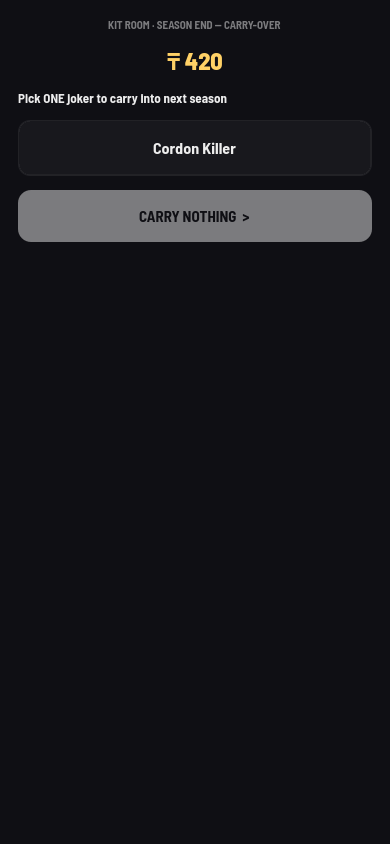
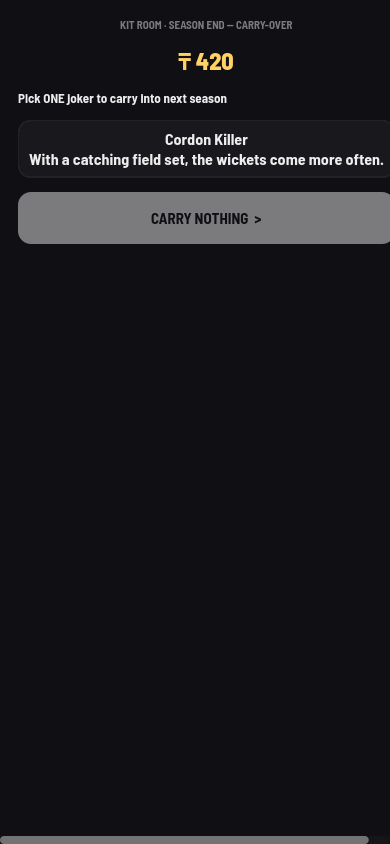
feat: T7 joker plain-English descriptions in Kit Room + tappable hub bench
JokerCatalog.DESC: 45 one-liners saying what each joker does in cricket words --
no percentages, no numbers (unit-enforced), honest to the effect rows. Kit Room
shows the line under every joker (starter picks, shelf, your-jokers, carry-over).
Hub bench tiles become Buttons: tap toggles the description in a JokDesc line
under the bench. Proof renders kit-room-*-v1.png + hub-joker-desc-v1.png
(harness tools/preview_joker_desc.gd). 850 tests / 10547 asserts green.

diff --git a/docs/PLAYTEST-NOTES.md b/docs/PLAYTEST-NOTES.md
@@ -56,6 +56,11 @@ Things worth an eye this pass (from the Form rung — ignore unless noticed):
   it takes two to look TIRED. No sweep needed: banding is display-only (hub chip, portrait,
   glow, Hall of Fame) — the sim reads FormState.mult(), which never touches bands.
 - (T7) Joker plain-English descriptions (45 one-liners, no %) + shown in Kit Room/hub (tap-info or subtext).
+  ✅ DONE 2026-07-04: `JokerCatalog.DESC` — 45 one-liners, no numbers/% (unit-enforced), honest
+  to the real effect rows. Kit Room shows the line under every joker (starter picks, shelf,
+  your-jokers, carry-over); hub bench tiles are now tappable — tap toggles the description
+  in a line under the bench. Renders: docs/mockups/kit-room-{starter,visit}-v1.png +
+  docs/mockups/hub-joker-desc-v1.png (harness tools/preview_joker_desc.gd).
 - (T8) DRS: show success % on the review prompt; clarify team-wide scope in copy.
   Answer to "what is the AI's DRS for": the opponent captain holds the same base reviews —
   they can overturn YOUR wickets (their batter survives) and claim close dots against you.
